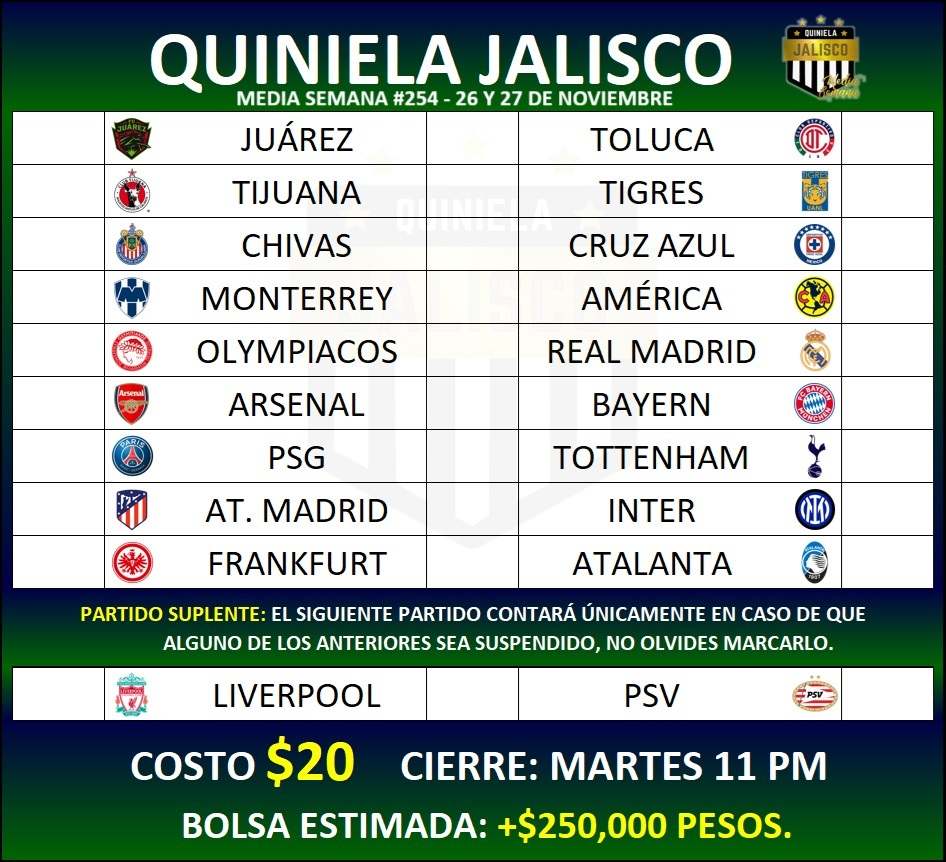
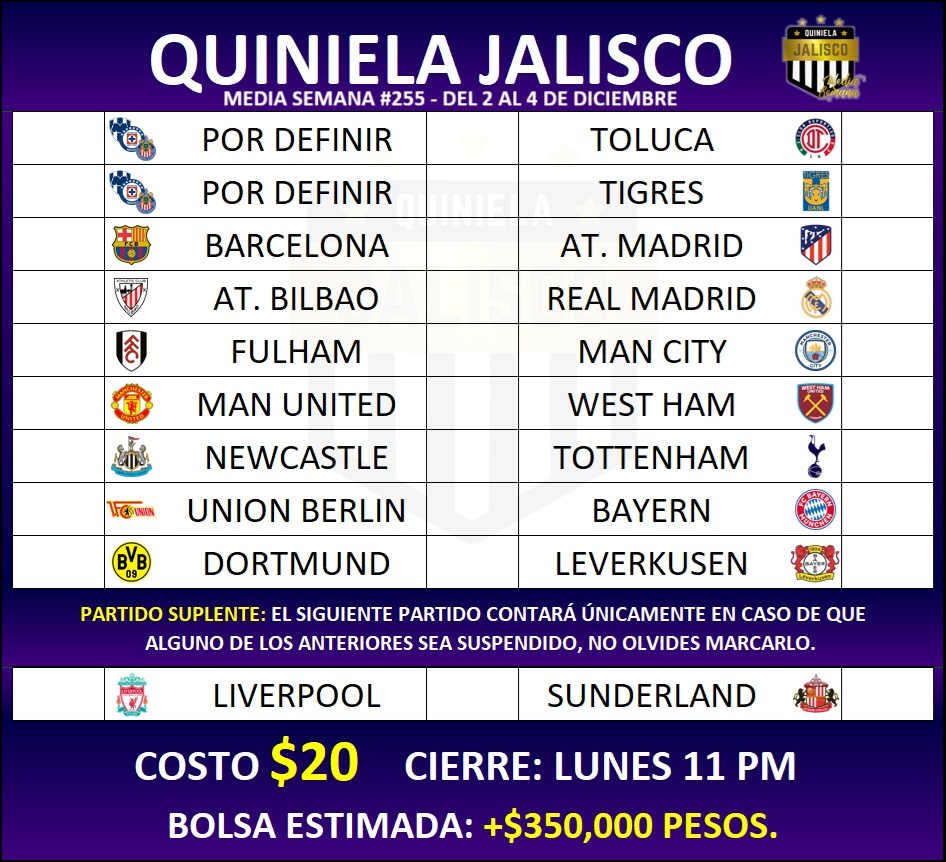
Media Semana #255

diff --git a/MediaSemana/stylesmSusp.css b/MediaSemana/stylesmSusp.css
@@ -94,8 +94,8 @@ body{
     margin-top: 9%;
     border: solid 1px black;
     border-radius: 0 0 14px 14px;
-    background: -webkit-linear-gradient(0.49turn, rgb(0,62,30) -7%, rgb(0 6 82) 80%);
-    background: linear-gradient(0.49turn, rgb(0,62,30) -7%, rgb(0 6 82) 80%);
+    background: -webkit-linear-gradient(0.49turn, rgb(35,0,102) -7%, rgb(0 6 82) 80%);
+    background: linear-gradient(0.49turn, rgb(35,0,102) -7%, rgb(0 6 82) 80%);
 }
 
 .text-lg{
@@ -296,7 +296,7 @@ h6{
 }
 
 #cantidad:before{
-    content:' +$250,000 pesos';
+    content:' +$350,000 pesos';
     color: yellow;
     white-space:pre;
 }
